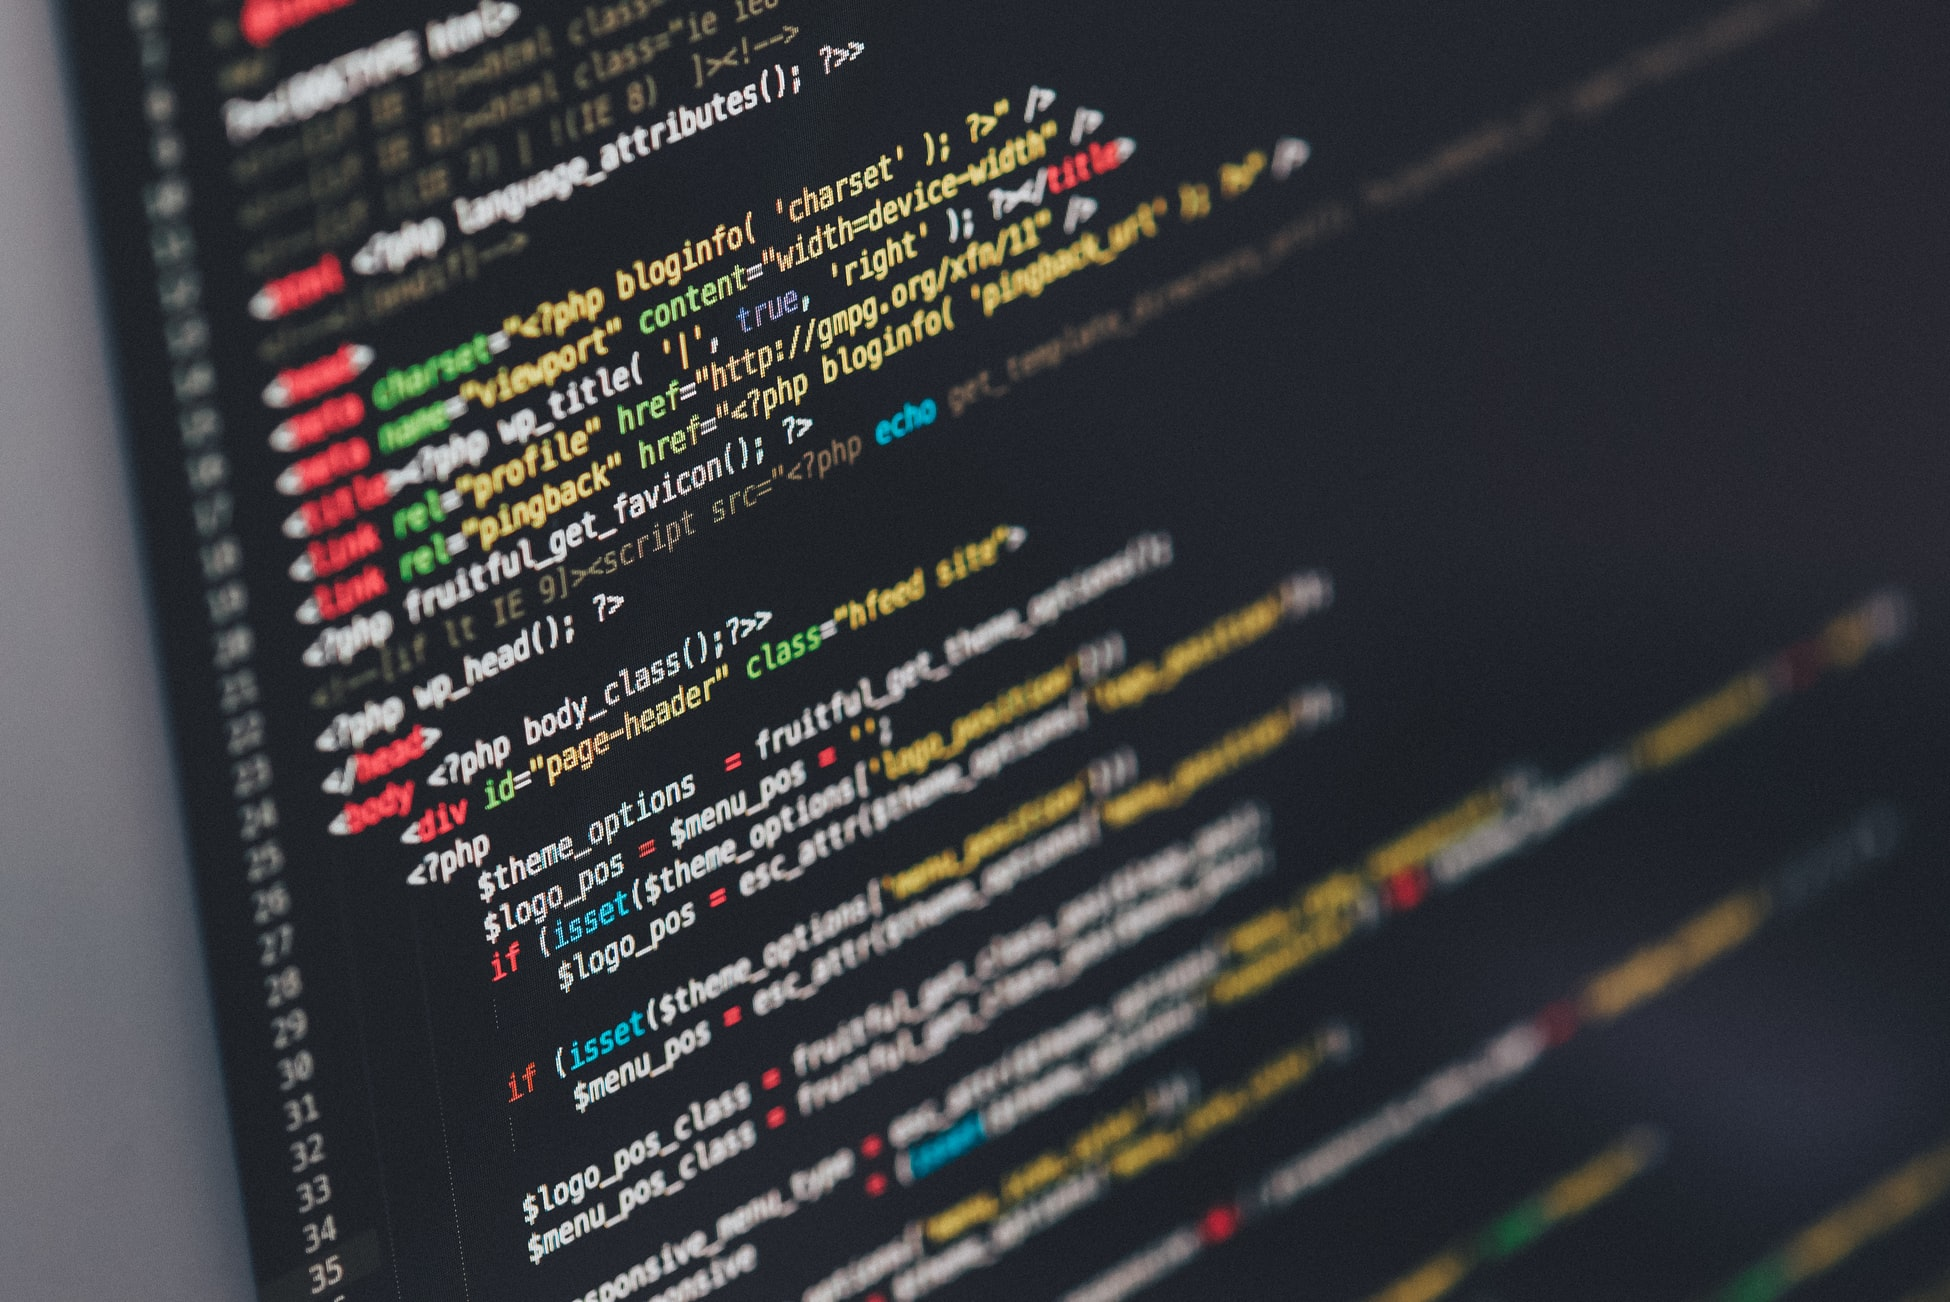
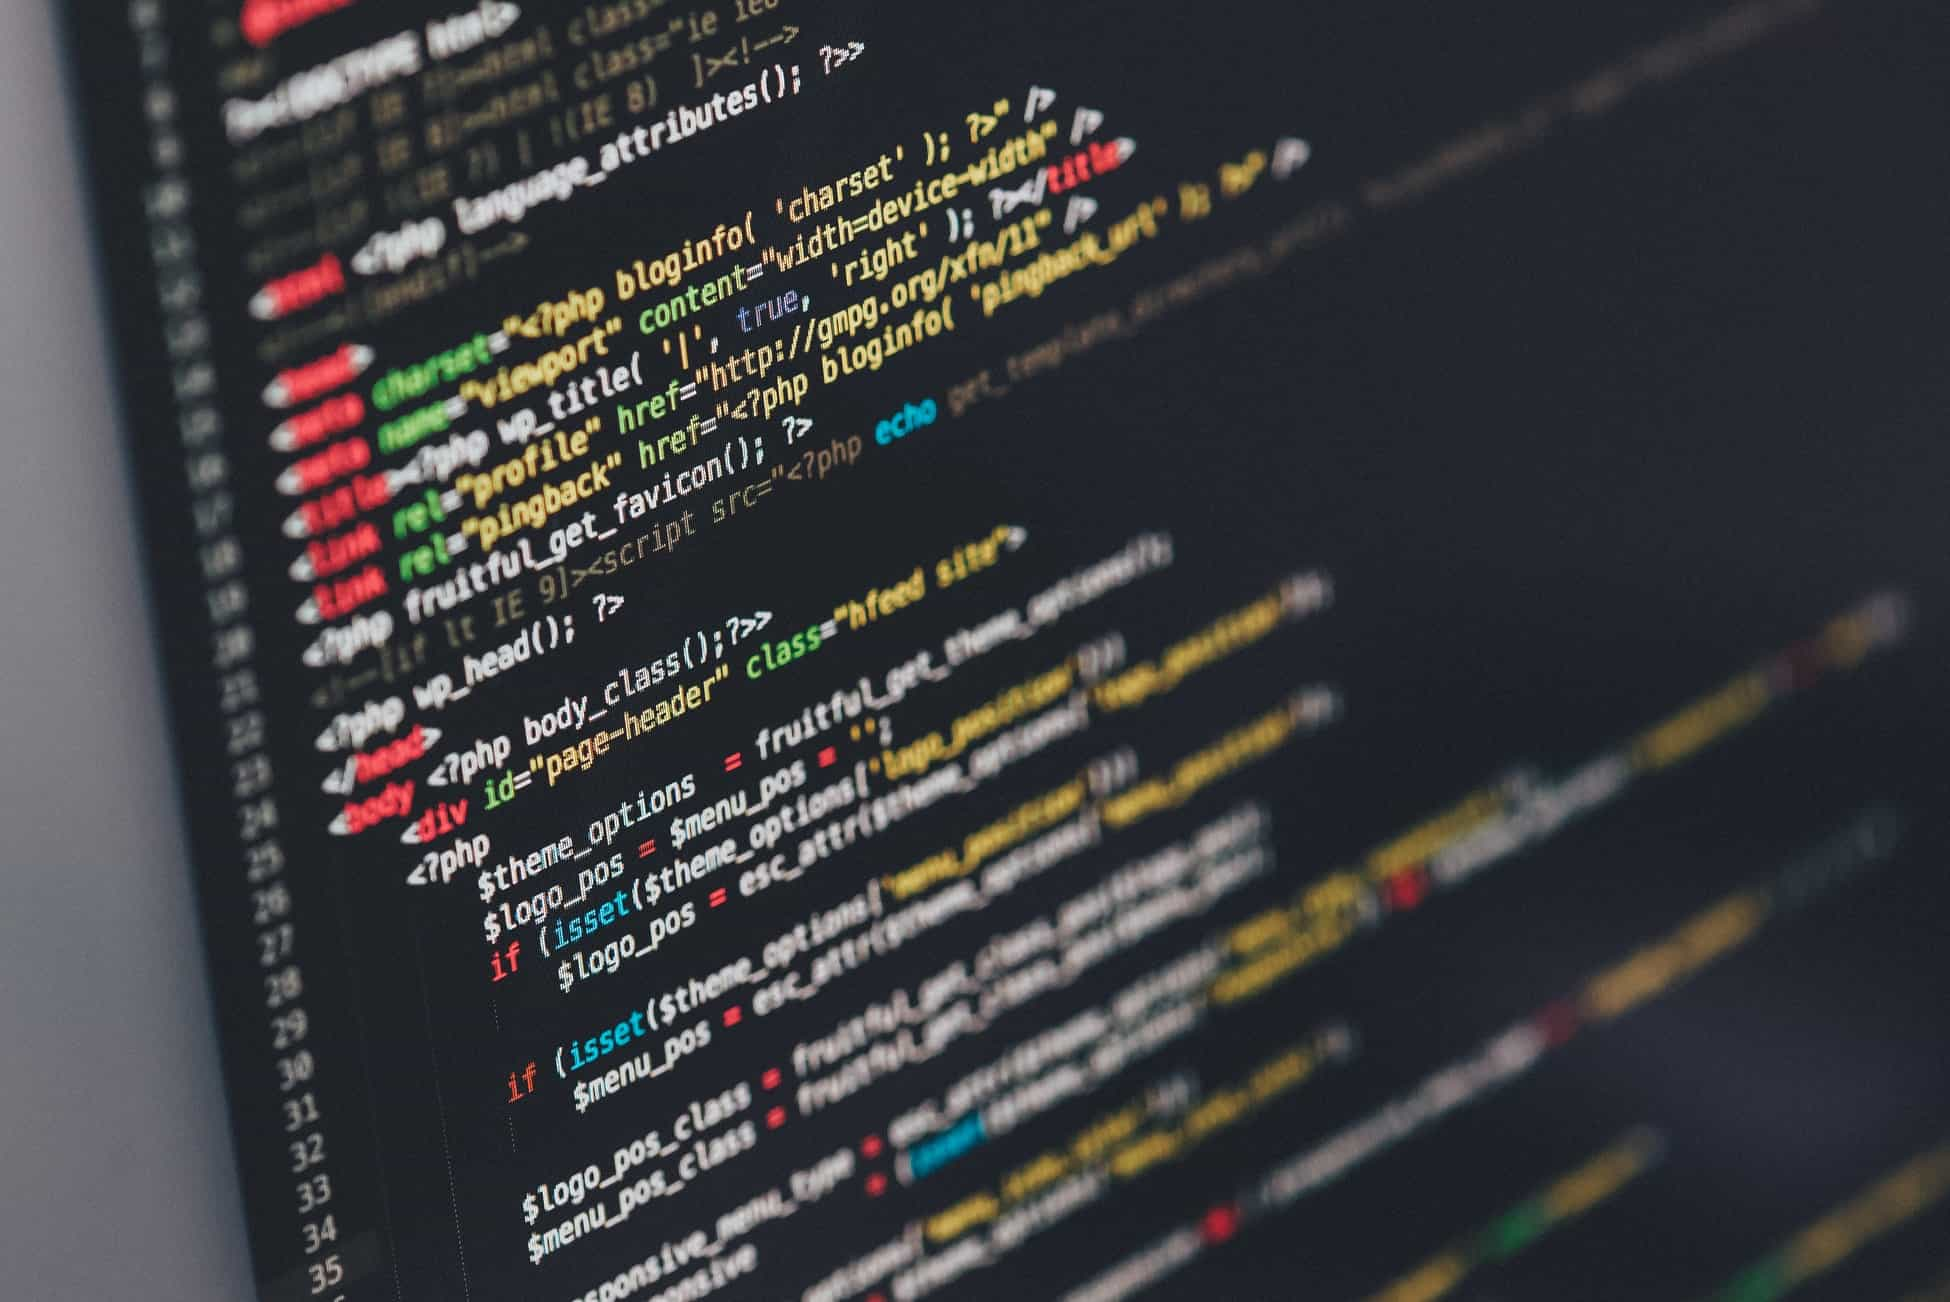
delete redundant text and image optimized

diff --git a/index.html b/index.html
@@ -89,12 +89,10 @@
             <header>
                 <h2>Every day focused on development</h2>
             </header>
-            <p>I'm trying to fall asleep better than I got up. It's my simple rule that I follow. Listening podcast,
+            <p>I'm trying to fall asleep better than I got up. It's simple rule that I follow. Listening podcast,
                 reading book, coding - all these things make me more valuable person. </p>
             <p>I have many ideas for my future career like my own podcast or startup. To realize my ideas, I just need
                 more experience and knowledge.</p>
-
-            <p></p>
         </div>
         <a href="#three" class="goto-next scrolly">Next</a>
     </section>
@@ -105,7 +103,7 @@
         <div class="content">
             <header>
                 <h2>Don't worry about me</h2>
-                <p>I'm a programmer from practice, not the guy from bootcamp.</p>
+                <p>I'm a programmer from practice.</p>
             </header>
             <p>All the things I learned about it, I learned it by myself. Thousands hours of programming, hundreds hours
                 debugging and countless threads on stackoverflow make me self-reliance and resourcefulness. </p>

diff --git a/compario.html b/compario.html
@@ -73,7 +73,7 @@
 
                         <img src="images/compario/compario.png" class="image fit" alt="compario-front">
 
-                        <h4>Fronted</h4>
+                        <h4>Frontend</h4>
                         <p>Front of application is created in Vue.js with Material Design Bootstrap. All is responsive
                             of course.</p>
 
